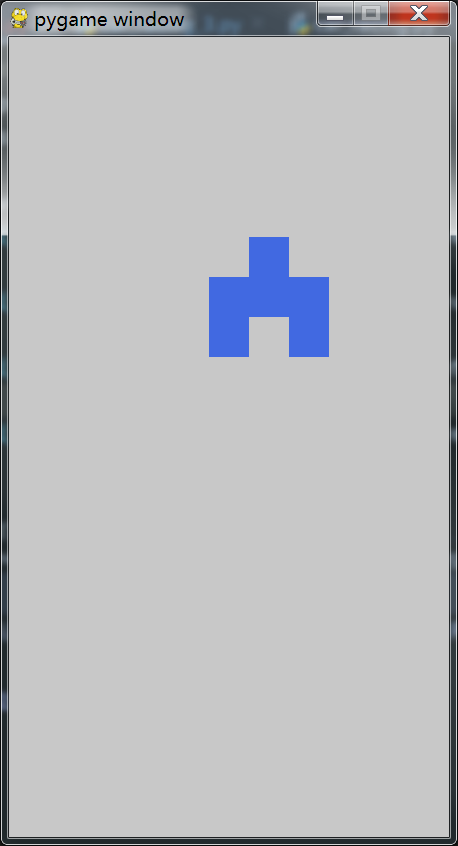
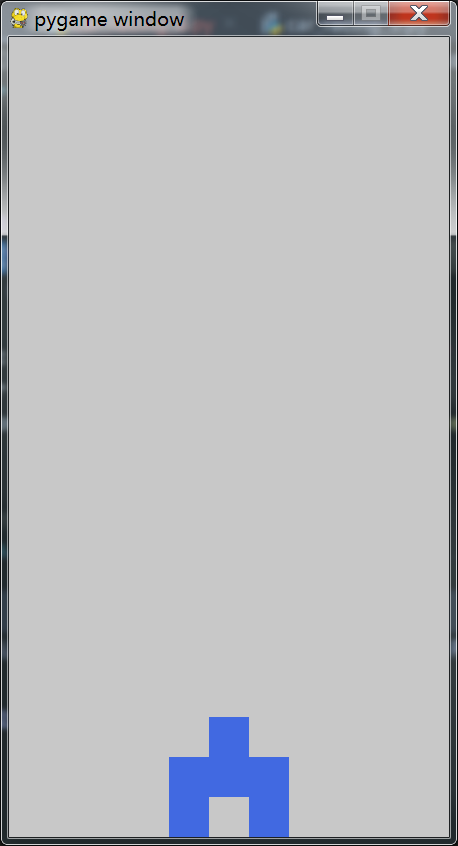
doc 1.md all done

diff --git a/1 car racing/car_racing_6.py b/1 car racing/car_racing_6.py
@@ -1,10 +1,13 @@
 import pygame
 import sys
+import random
+
 
 C, R = 11, 20  # 11列， 20行
 CELL_SIZE = 40  # 格子尺寸
 
 FPS=60  # 游戏帧率
+MOVE_SPACE = 5
 WIN_WIDTH = CELL_SIZE * C  # 窗口宽度
 WIN_HEIGHT = CELL_SIZE * R  # 窗口高度
 
@@ -71,6 +74,11 @@ class Block(pygame.sprite.Sprite):
 
         return False
 
+    def is_out(self):
+        if 0 <= self.cr[0] < C and 0 <= self.cr[1] < R:
+            return False
+        return False
+
 
 class Car(pygame.sprite.Group):
     def __init__(self, c, r, car_kind, car_color):
@@ -86,19 +94,84 @@ class Car(pygame.sprite.Group):
 
     def move(self, direction=""):
         if all(block.check_move(direction) for block in self.sprites()):
-            for block in self.sprites():
-                block.move(direction)
+            self.free_move(direction)
+
+    def free_move(self, direction=""):
+        for block in self.sprites():
+            block.move(direction)
+
+    def is_out(self):
+        return all(block.is_out() for block in self.sprites())
+
+    def check_collide(self, other_car):
+        for block in self.sprites():
+            bcr1 = tuple(block.cr)
+            for other_block in other_car.sprites():
+                bcr2 = tuple(other_block.cr)
+                if bcr1 == bcr2:
+                    return True
+
+        return False
 
 
 bg_color = (200, 200, 200)
 enemy_color = (50, 50, 50)
 player_color = (65, 105, 225)  # RoyalBlue
 
+
+class EnemyManager():
+    def __init__(self):
+        self.enemies = []
+
+        self.move_count = 0
+
+    def gen_new_enemies(self):  # 生成敌人赛车
+        # 设置敌人赛车的生成间隔， 隔两倍的敌人赛车行数+1
+        if self.move_count % (2 * len(CARS["enemy"]) + 1) == 1:
+
+            ec = random.randint(1, C - len(CARS["enemy"][0]))
+            enemy = Car(ec, 0, "enemy", enemy_color)
+
+            self.enemies.append(enemy)
+
+    def move(self):  # 自动向下移动敌人赛车
+        # 超出边界后，自动清理掉
+        to_delete = []
+        for i, enemy in enumerate(self.enemies):
+            enemy.free_move("DOWN")
+            if enemy.is_out():
+                to_delete.append(i)
+
+        for di in to_delete[::-1]:  # 倒着按序号来删除
+            self.enemies.pop(di)
+
+        self.move_count += 1
+
+        self.gen_new_enemies()
+
+    def draw(self, master):
+        # 绘制敌人赛车
+        for enemy in self.enemies:
+            enemy.draw(master)
+
+    def check_collide(self, player):
+        for enemy in self.enemies:
+            if enemy.check_collide(player):
+                return True
+
+        return False
+
+
 bottom_center_c = (C - len(CARS["player"][0])) // 2
 bottom_center_r = R - len(CARS["player"])
 car = Car(bottom_center_c, bottom_center_r, "player", player_color)
 
+emg = EnemyManager()
+
+frame_count = 0
 while True:
+    frame_count += 1
+
     # 获取所有事件
     for event in pygame.event.get():
         if event.type == pygame.QUIT:
@@ -118,7 +191,15 @@ while True:
 
     win.fill(bg_color)
 
+    if frame_count % MOVE_SPACE == 0:
+        emg.move()
+
+    emg.draw(win)
+
     car.draw(win)
+
+    if emg.check_collide(car):
+        break
 
     clock.tick(FPS) # 控制循环刷新频率,每秒刷新FPS对应的值的次数
     pygame.display.update()

diff --git a/1 car racing/car_racing_5.py b/1 car racing/car_racing_5.py
@@ -35,6 +35,8 @@ pygame.init() # pygame初始化，必须有，且必须在开头
 # 创建主窗体
 clock = pygame.time.Clock() # 用于控制循环刷新频率的对象
 win = pygame.display.set_mode((WIN_WIDTH,WIN_HEIGHT))
+pygame.display.set_caption('Car Racing by Big Shuang')
+
 
 class Block(pygame.sprite.Sprite):
     def __init__(self, c, r, color):
@@ -143,7 +145,10 @@ class EnemyManager():
             enemy.draw(master)
 
 
-car = Car(5, 5, "player", player_color)
+bottom_center_c = (C - len(CARS["player"][0])) // 2
+bottom_center_r = R - len(CARS["player"])
+car = Car(bottom_center_c, bottom_center_r, "player", player_color)
+
 emg = EnemyManager()
 
 frame_count = 0

diff --git a/1 car racing/car_racing_2.py b/1 car racing/car_racing_2.py
@@ -12,6 +12,8 @@ pygame.init() # pygame初始化，必须有，且必须在开头
 # 创建主窗体
 clock = pygame.time.Clock() # 用于控制循环刷新频率的对象
 win = pygame.display.set_mode((WIN_WIDTH,WIN_HEIGHT))
+pygame.display.set_caption('Car Racing by Big Shuang')
+
 
 class Block(pygame.sprite.Sprite):
     def __init__(self, c, r, color):

diff --git a/1 car racing/car_racing_3.py b/1 car racing/car_racing_3.py
@@ -20,6 +20,8 @@ pygame.init() # pygame初始化，必须有，且必须在开头
 # 创建主窗体
 clock = pygame.time.Clock() # 用于控制循环刷新频率的对象
 win = pygame.display.set_mode((WIN_WIDTH,WIN_HEIGHT))
+pygame.display.set_caption('Car Racing by Big Shuang')
+
 
 class Block(pygame.sprite.Sprite):
     def __init__(self, c, r, color):

diff --git a/1 car racing/car_racing_1.py b/1 car racing/car_racing_1.py
@@ -12,7 +12,7 @@ pygame.init() # pygame初始化，必须有，且必须在开头
 # 创建主窗体
 clock = pygame.time.Clock() # 用于控制循环刷新频率的对象
 win = pygame.display.set_mode((WIN_WIDTH,WIN_HEIGHT))
-
+pygame.display.set_caption('Car Racing by Big Shuang')
 
 while True:
     # 获取所有事件
